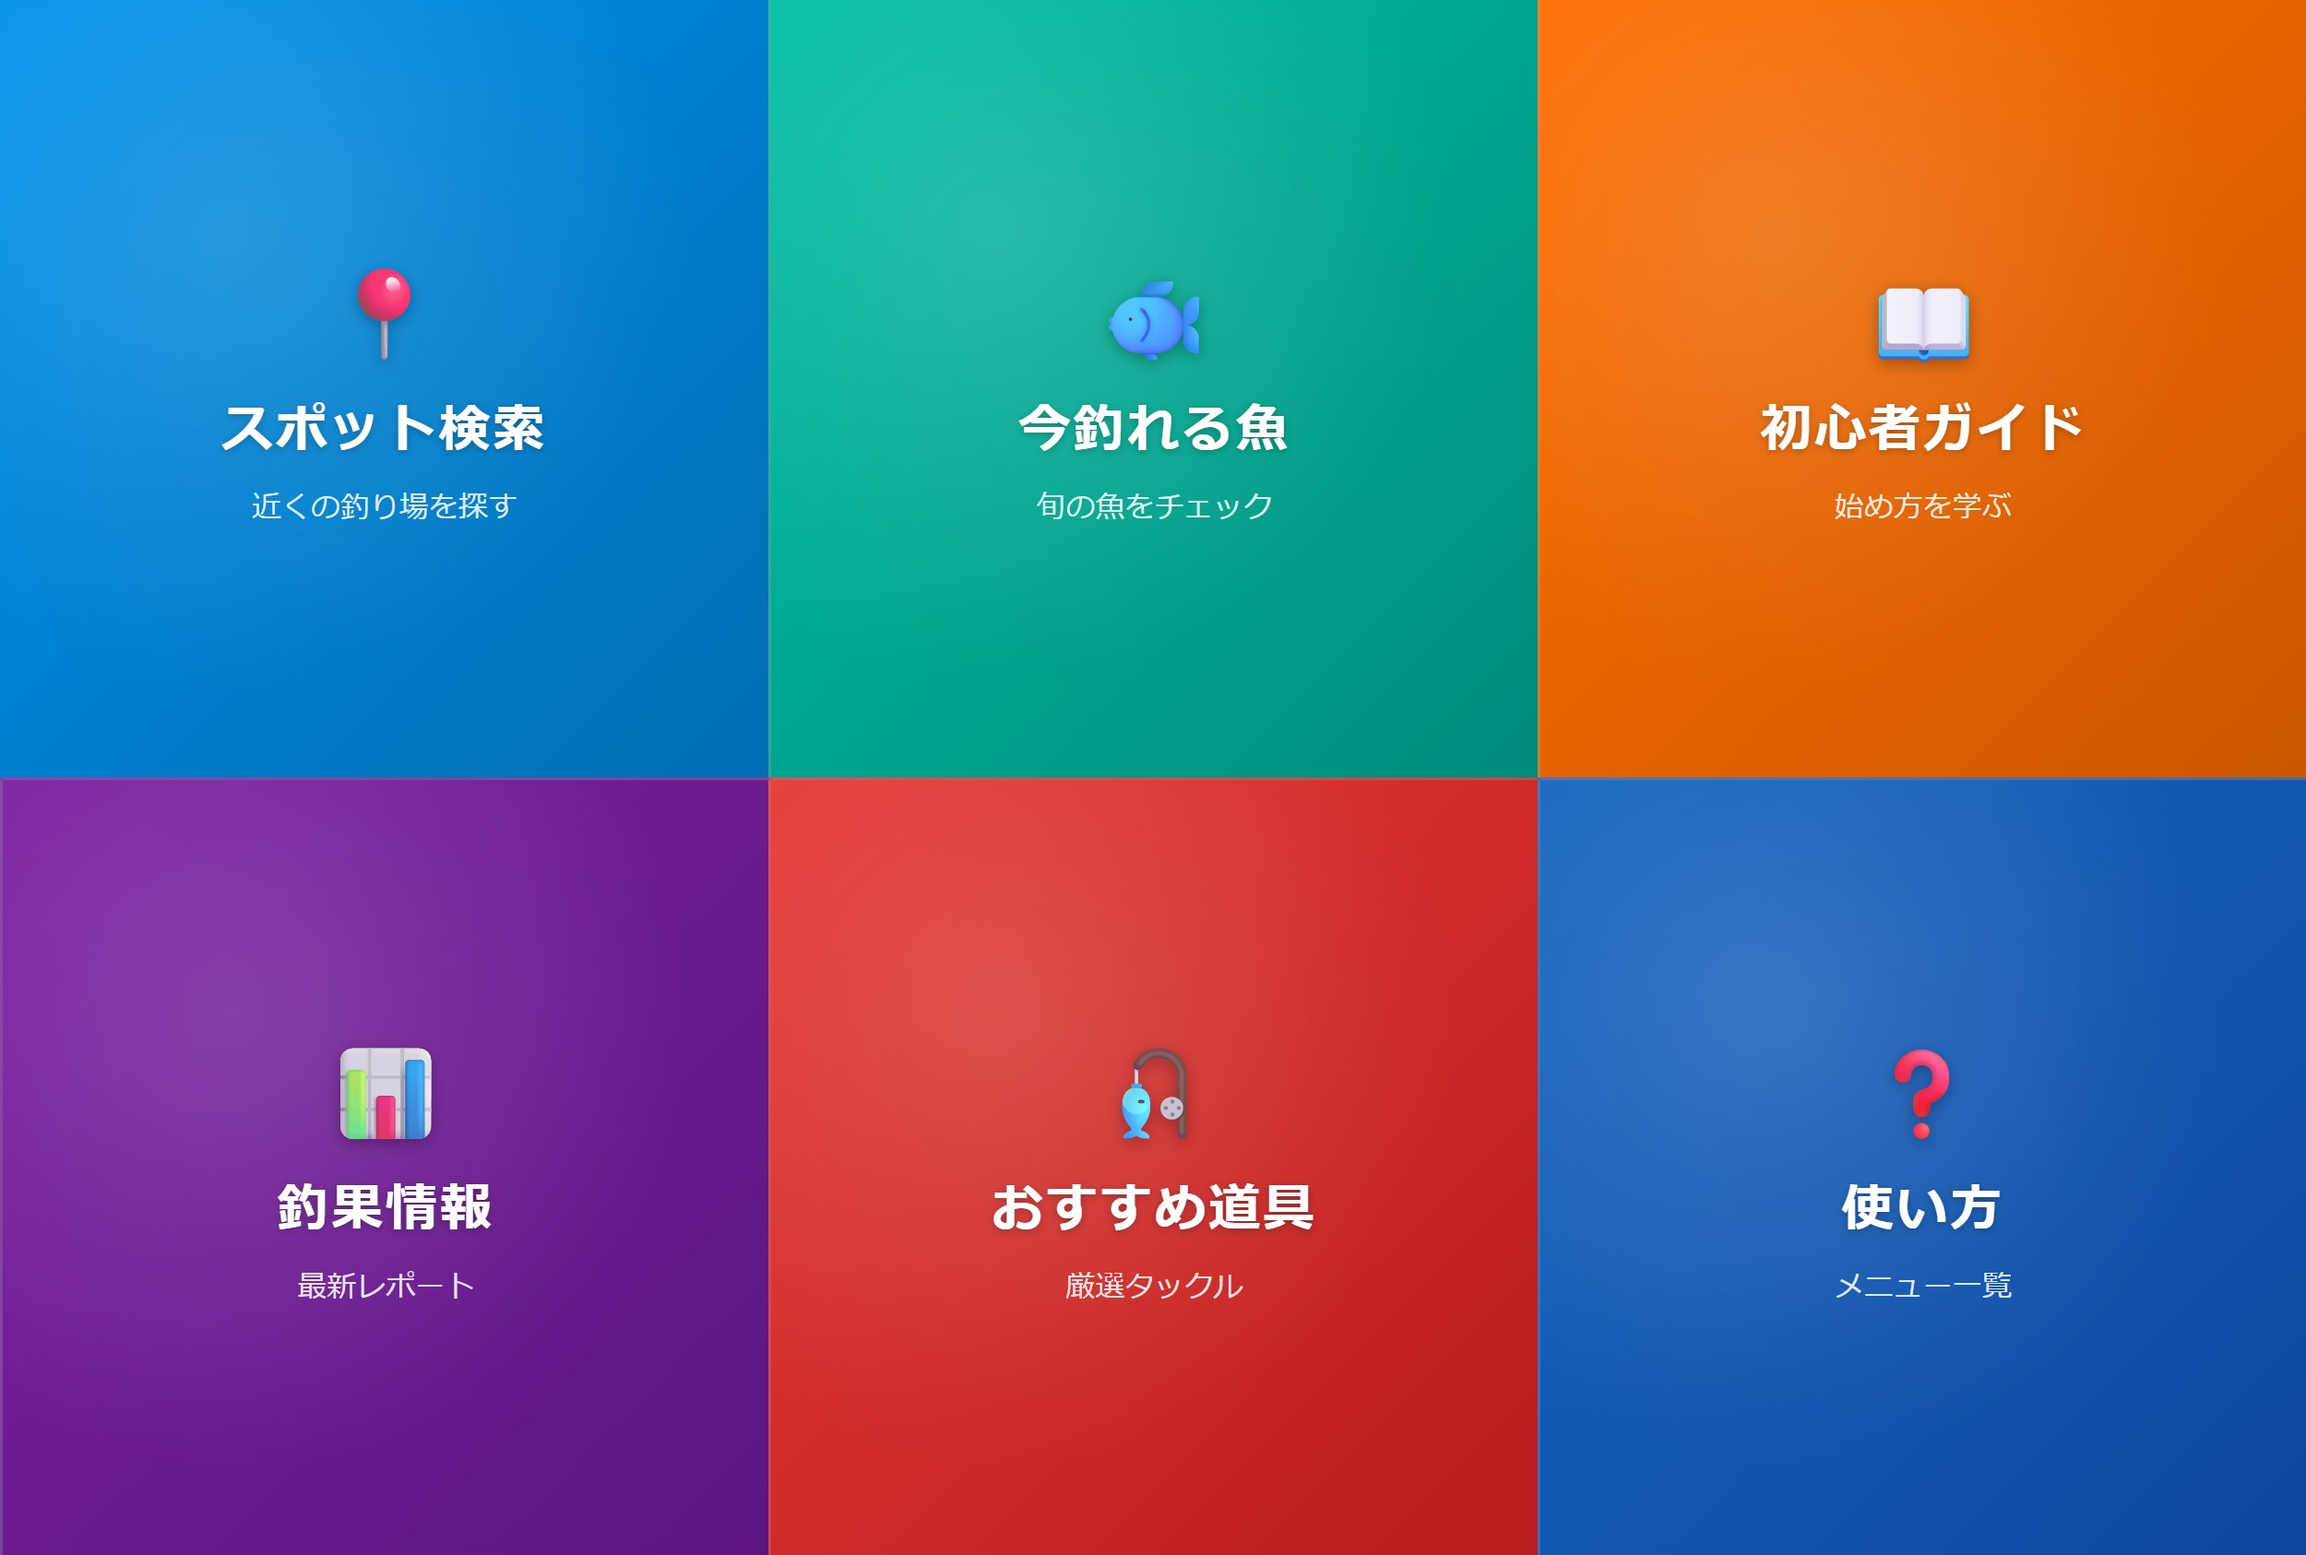
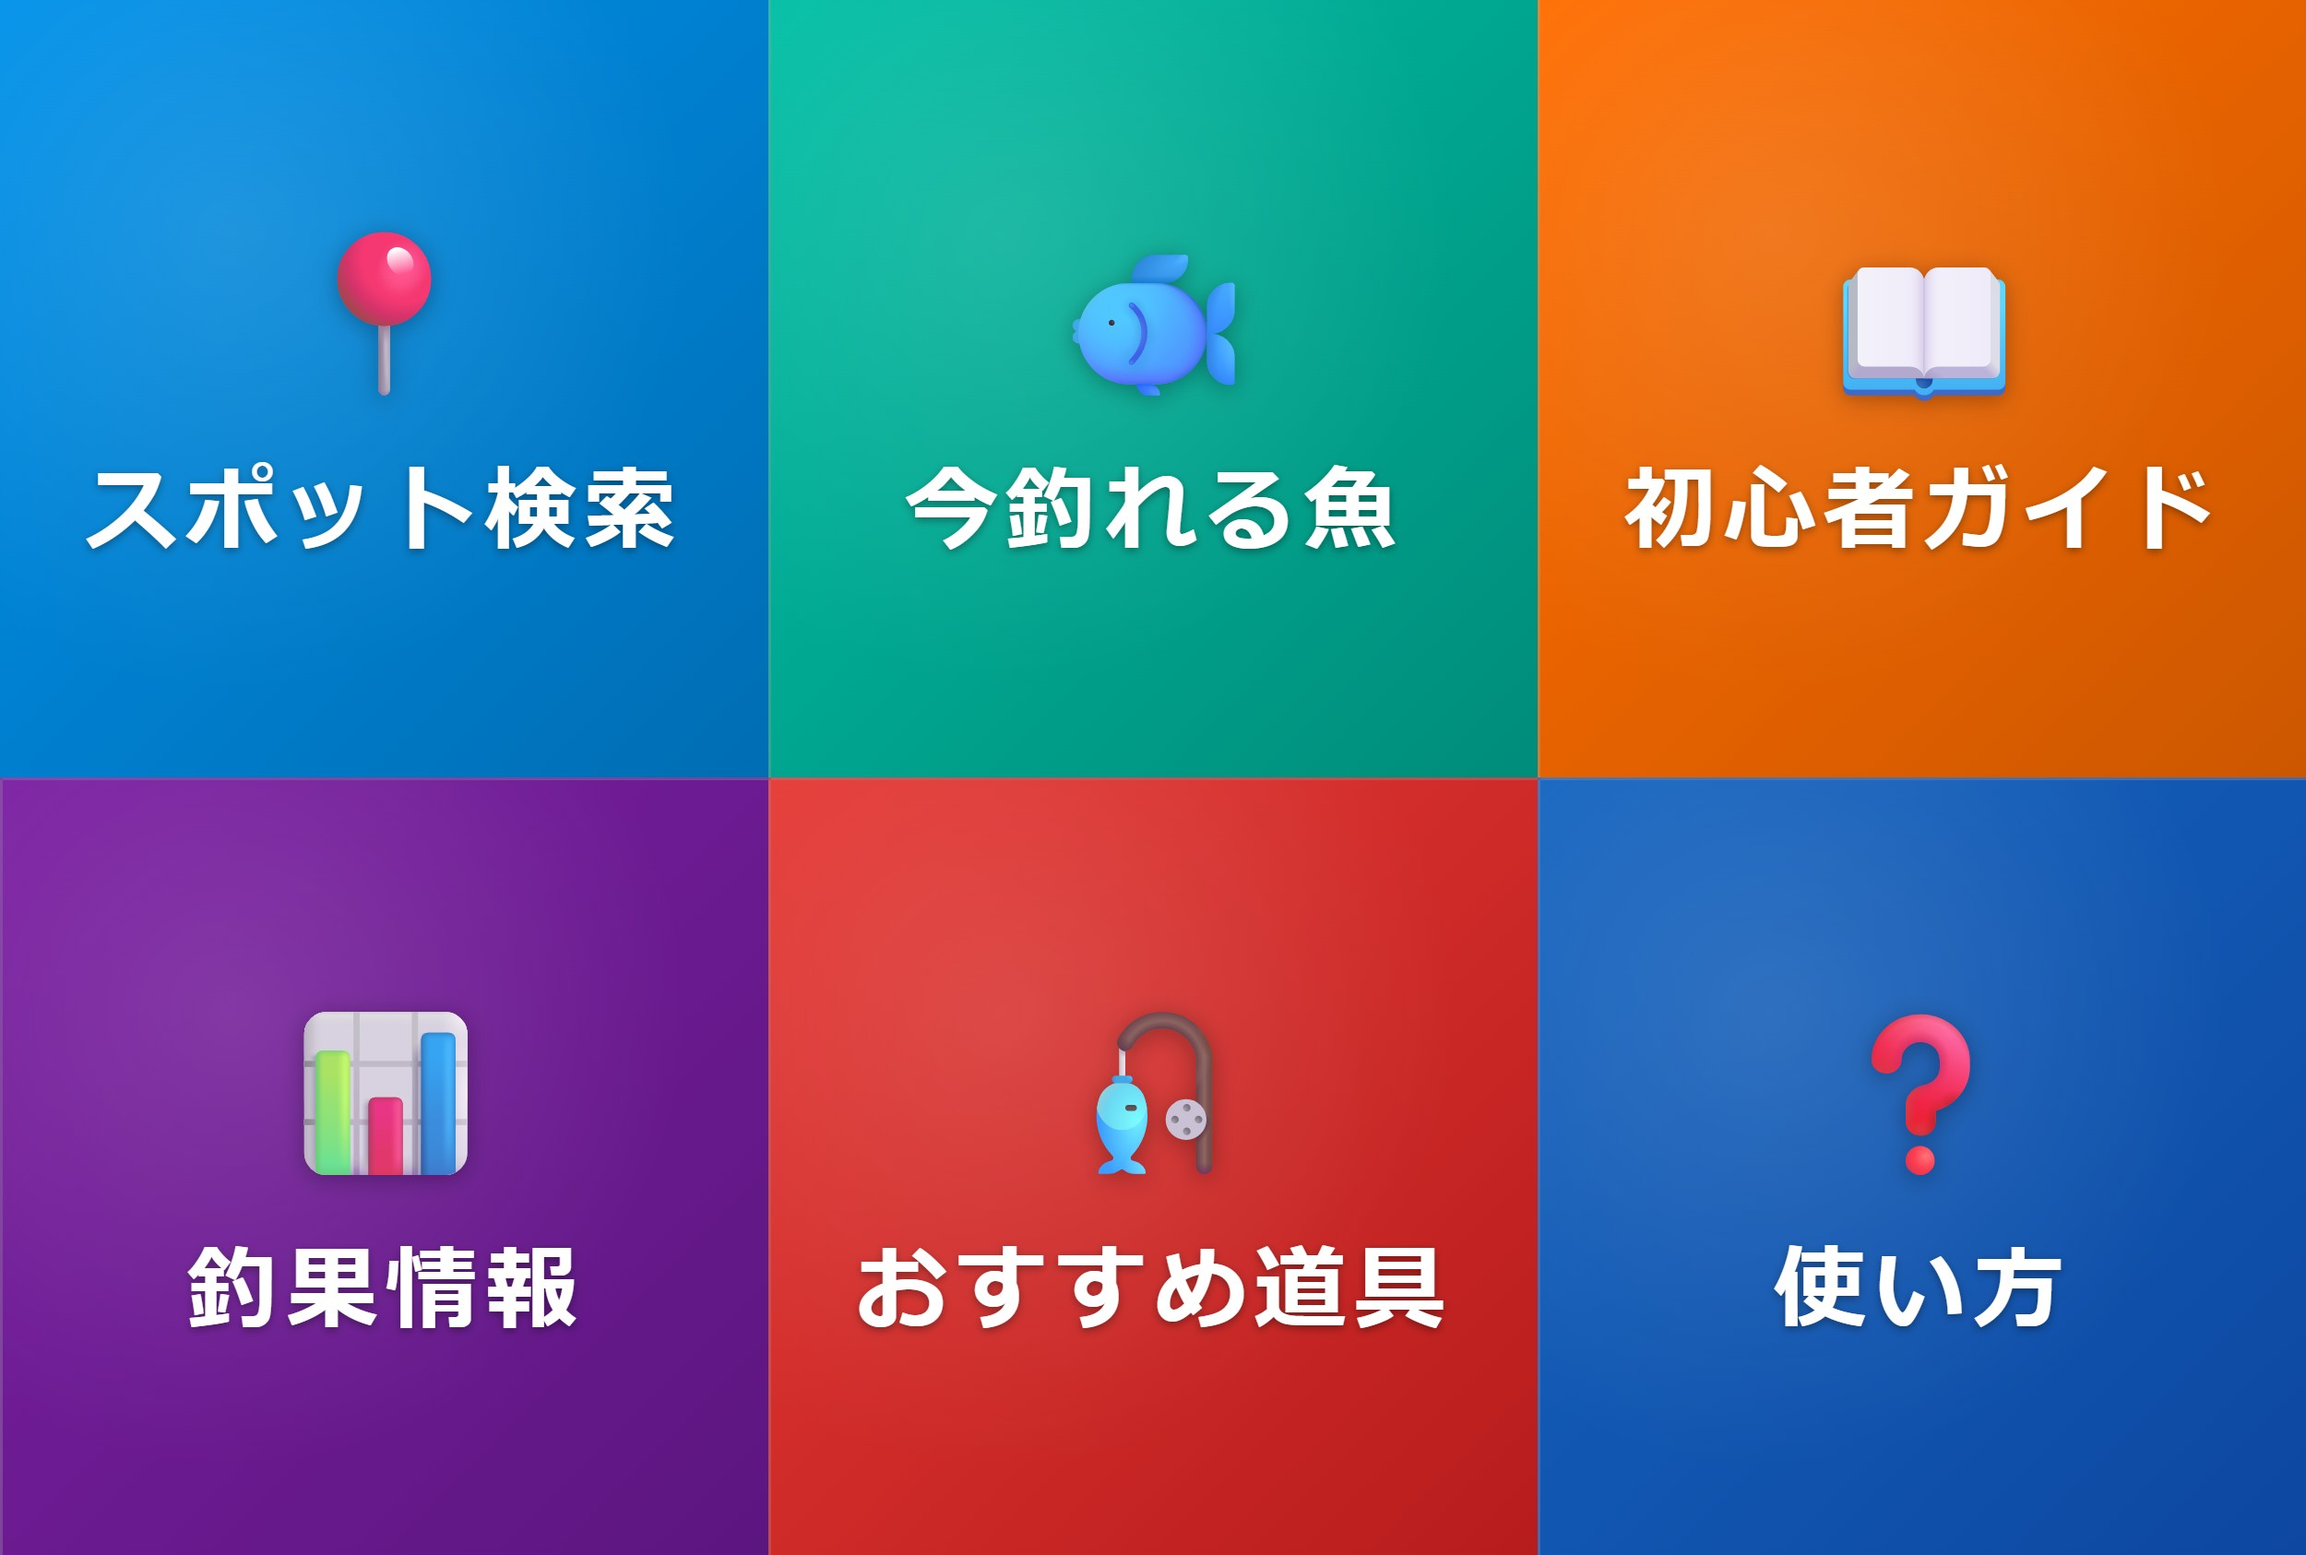
LINE: 釣り方別道具レコメンド追加、リッチメニュー文字拡大

diff --git a/src/app/api/line-webhook/route.ts b/src/app/api/line-webhook/route.ts
@@ -29,8 +29,21 @@ function verifySignature(body: string, signature: string): boolean {
   return hash === signature;
 }
 
-/** LINEにリプライメッセージを送信 */
-async function replyMessage(replyToken: string, text: string) {
+/** LINEにリプライメッセージを送信（quickReply対応） */
+async function replyMessage(
+  replyToken: string,
+  text: string,
+  quickReplyItems?: Array<{ label: string; text: string }>
+) {
+  const message: Record<string, unknown> = { type: "text", text };
+  if (quickReplyItems?.length) {
+    message.quickReply = {
+      items: quickReplyItems.map((item) => ({
+        type: "action",
+        action: { type: "message", label: item.label, text: item.text },
+      })),
+    };
+  }
   await fetch("https://api.line.me/v2/bot/message/reply", {
     method: "POST",
     headers: {
@@ -39,7 +52,7 @@ async function replyMessage(replyToken: string, text: string) {
     },
     body: JSON.stringify({
       replyToken,
-      messages: [{ type: "text", text }],
+      messages: [message],
     }),
   });
 }
@@ -276,7 +289,163 @@ async function handleGeneralUserMessage(replyToken: string, text: string, userId
     return;
   }
 
-  // 道具・おすすめ → ギアページ
+  // 釣り方別の道具レコメンド
+  const methodGear: Record<string, { name: string; guide: string; items: string[] }> = {
+    サビキ: {
+      name: "サビキ釣り",
+      guide: "https://tsurispot.com/guide/sabiki",
+      items: [
+        "🔸 ロッド（万能竿 2-3m）",
+        "  https://amzn.to/4s4i64m",
+        "🔸 リール（2000-2500番）",
+        "  https://amzn.to/4atW7Om",
+        "🔸 コマセ（アミ姫）",
+        "  https://amzn.to/4c6gaUn",
+        "🔸 おもりセット",
+        "  https://amzn.to/4cFGDbl",
+      ],
+    },
+    ちょい投げ: {
+      name: "ちょい投げ釣り",
+      guide: "https://tsurispot.com/guide/choinage",
+      items: [
+        "🔸 ロッド（投げ竿 2.4-3m）",
+        "  https://amzn.to/4s4i64m",
+        "🔸 リール（2500-3000番）",
+        "  https://amzn.to/4atW7Om",
+        "🔸 ジェット天秤",
+        "  https://amzn.to/4l7BnQg",
+        "🔸 ナイロンライン（道糸）",
+        "  https://amzn.to/4s1SPaX",
+      ],
+    },
+    ウキ: {
+      name: "ウキ釣り",
+      guide: "https://tsurispot.com/guide/float-fishing",
+      items: [
+        "🔸 ロッド（磯竿 3-4m）",
+        "  https://amzn.to/4s4i64m",
+        "🔸 リール（2500番）",
+        "  https://amzn.to/4atW7Om",
+        "🔸 ハリス",
+        "  https://amzn.to/408jI1f",
+        "🔸 ナイロンライン（道糸）",
+        "  https://amzn.to/4s1SPaX",
+      ],
+    },
+    ルアー: {
+      name: "ルアー釣り",
+      guide: "https://tsurispot.com/guide/lure",
+      items: [
+        "🔸 ロッド（ルアーロッド）",
+        "  https://amzn.to/4s4i64m",
+        "🔸 リール（2500-3000番）",
+        "  https://amzn.to/4atW7Om",
+        "🔸 PEライン（道糸）",
+        "  https://amzn.to/4s45H0i",
+        "🔸 フロロリーダー",
+        "  https://amzn.to/4tKXyzu",
+      ],
+    },
+    エギング: {
+      name: "エギング",
+      guide: "https://tsurispot.com/guide/eging",
+      items: [
+        "🔸 ロッド（エギングロッド）",
+        "  https://amzn.to/4s4i64m",
+        "🔸 リール（2500番）",
+        "  https://amzn.to/4atW7Om",
+        "🔸 エギ10本セット",
+        "  https://amzn.to/3Nc9r10",
+        "🔸 PEライン（道糸）",
+        "  https://amzn.to/4s45H0i",
+      ],
+    },
+    ジギング: {
+      name: "ショアジギング",
+      guide: "https://tsurispot.com/guide/jigging",
+      items: [
+        "🔸 ロッド（ジギングロッド）",
+        "  https://amzn.to/4s4i64m",
+        "🔸 リール（3000-4000番）",
+        "  https://amzn.to/4atW7Om",
+        "🔸 PEライン（道糸）",
+        "  https://amzn.to/4s45H0i",
+        "🔸 スナップ",
+        "  https://amzn.to/4c9oMcU",
+      ],
+    },
+    穴釣り: {
+      name: "穴釣り",
+      guide: "https://tsurispot.com/guide/anazuri",
+      items: [
+        "🔸 ロッド（短竿 1-1.5m）",
+        "  https://amzn.to/4s4i64m",
+        "🔸 リール（小型1000番）",
+        "  https://amzn.to/4atW7Om",
+        "🔸 おもりセット",
+        "  https://amzn.to/4cFGDbl",
+        "🔸 ナイロンライン",
+        "  https://amzn.to/4s1SPaX",
+      ],
+    },
+    カゴ釣り: {
+      name: "遠投カゴ釣り",
+      guide: "https://tsurispot.com/guide/entou-kago",
+      items: [
+        "🔸 ロッド（遠投磯竿 4-5m）",
+        "  https://amzn.to/4s4i64m",
+        "🔸 リール（3000-4000番）",
+        "  https://amzn.to/4atW7Om",
+        "🔸 PEライン（道糸）",
+        "  https://amzn.to/4s45H0i",
+        "🔸 ハリス",
+        "  https://amzn.to/408jI1f",
+      ],
+    },
+    泳がせ: {
+      name: "泳がせ釣り",
+      guide: "https://tsurispot.com/guide/oyogase",
+      items: [
+        "🔸 ロッド（磯竿 3-4m）",
+        "  https://amzn.to/4s4i64m",
+        "🔸 リール（3000-4000番）",
+        "  https://amzn.to/4atW7Om",
+        "🔸 ハリス（太め）",
+        "  https://amzn.to/408jI1f",
+        "🔸 スナップ",
+        "  https://amzn.to/4c9oMcU",
+      ],
+    },
+  };
+
+  // 釣り方名にマッチ → 道具レコメンド
+  const matchedMethod = Object.entries(methodGear).find(([key]) => text.includes(key));
+  if (matchedMethod && /道具|タックル|装備|おすすめ|ギア/i.test(text)) {
+    const [, method] = matchedMethod;
+    await replyMessage(
+      replyToken,
+      [
+        "━━━━━━━━━━━━━━",
+        `🎣 ${method.name}のおすすめ道具`,
+        "━━━━━━━━━━━━━━",
+        "",
+        ...method.items,
+        "",
+        `▼ ${method.name}の詳しいガイド`,
+        method.guide,
+      ].join("\n"),
+      [
+        { label: "サビキ", text: "サビキの道具" },
+        { label: "ちょい投げ", text: "ちょい投げの道具" },
+        { label: "ルアー", text: "ルアーの道具" },
+        { label: "エギング", text: "エギングの道具" },
+      ]
+    );
+    return;
+  }
+
+  // 道具・おすすめ → 釣り方選択（クイックリプライ付き）
   if (/道具|おすすめ|タックル|ロッド|リール|gear|装備/i.test(text)) {
     await replyMessage(
       replyToken,
@@ -290,7 +459,22 @@ async function handleGeneralUserMessage(replyToken: string, text: string, userId
         "",
         "▼ 釣り方別の道具ガイド",
         "https://tsurispot.com/guide",
-      ].join("\n")
+        "",
+        "━━━━━━━━━━━━━━",
+        "↓ 釣り方をタップすると",
+        "おすすめ道具を表示します",
+      ].join("\n"),
+      [
+        { label: "サビキ釣り", text: "サビキの道具" },
+        { label: "ちょい投げ", text: "ちょい投げの道具" },
+        { label: "ウキ釣り", text: "ウキの道具" },
+        { label: "ルアー釣り", text: "ルアーの道具" },
+        { label: "エギング", text: "エギングの道具" },
+        { label: "ジギング", text: "ジギングの道具" },
+        { label: "穴釣り", text: "穴釣りの道具" },
+        { label: "カゴ釣り", text: "カゴ釣りの道具" },
+        { label: "泳がせ釣り", text: "泳がせの道具" },
+      ]
     );
     return;
   }
